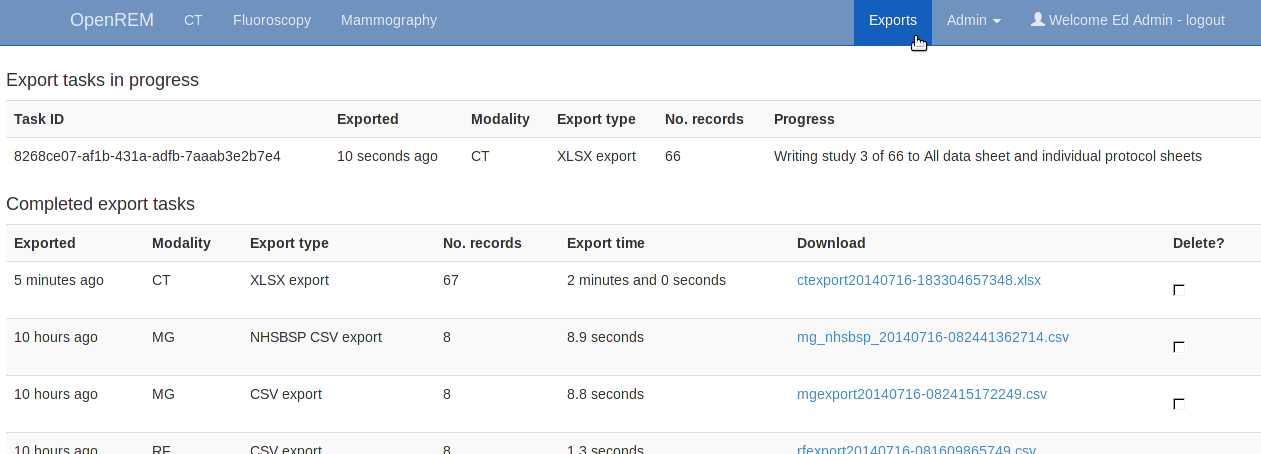
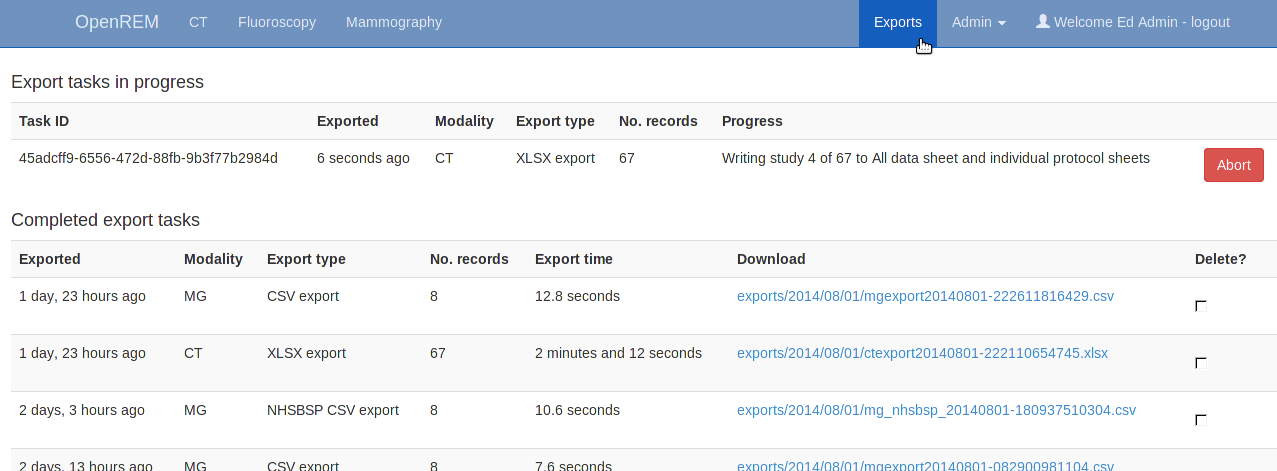
Updating screenshot for docs to include export abort button, and added text to indicate the observed behaviour. Refs #111.

diff --git a/docs/i_exporting.rst b/docs/i_exporting.rst
@@ -47,12 +47,15 @@ you can also get to using the link at the top right of the navigation bar:
 
 .. image:: img/Exports.png
     :align: center
-    :width: 1261px
-    :height: 454px
+    :width: 1277px
+    :height: 471px
     :alt: Exports list
 
 Whilst an export is being processed, it will be listed in the first table
 at the top. The current status is displayed to indicate export progress.
+If an export gets stuck for whatever reason, you may be able to abort the
+process by clicking the 'Abort' button. However this does not always cause
+an active export to terminate - you may find it completes anyway!
 
 Completed exports are then listed in the second table, with a link to
 download the csv or xlsx file.
